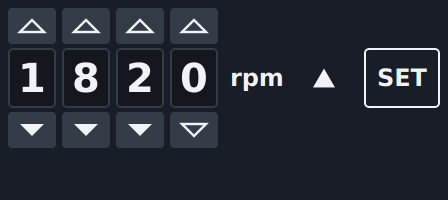
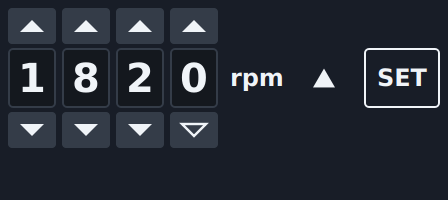
docs(gallery): ThumbwheelSwitch above-limit showcase after #242
In OnConfirm the + steps from a value above the maximum are now taken
into the pending value, so the + arrows are filled; the showcase comment
said they were rejected. Comment rewritten, image re-exported.

diff --git a/examples/gallery/Showcases.cpp b/examples/gallery/Showcases.cpp
@@ -343,7 +343,10 @@ QWidget *thumbwheelAboveLimit(Theme theme)
 {
     ThumbwheelSwitch *w = thumbwheel(theme, 4, 0, false, QStringLiteral("rpm"));
     w->setRange(0.0, 1500.0);
-    w->setValue(1820.0); // Read back above the maximum: ▲, and every + step is rejected
+    // Read back above the maximum: ▲.
+    // OnConfirm: the + and − steps are taken into the pending value; SET applies it only if it is inside the limits or
+    // closer to them than the current value (#242).
+    w->setValue(1820.0);
     return w;
 }
 
